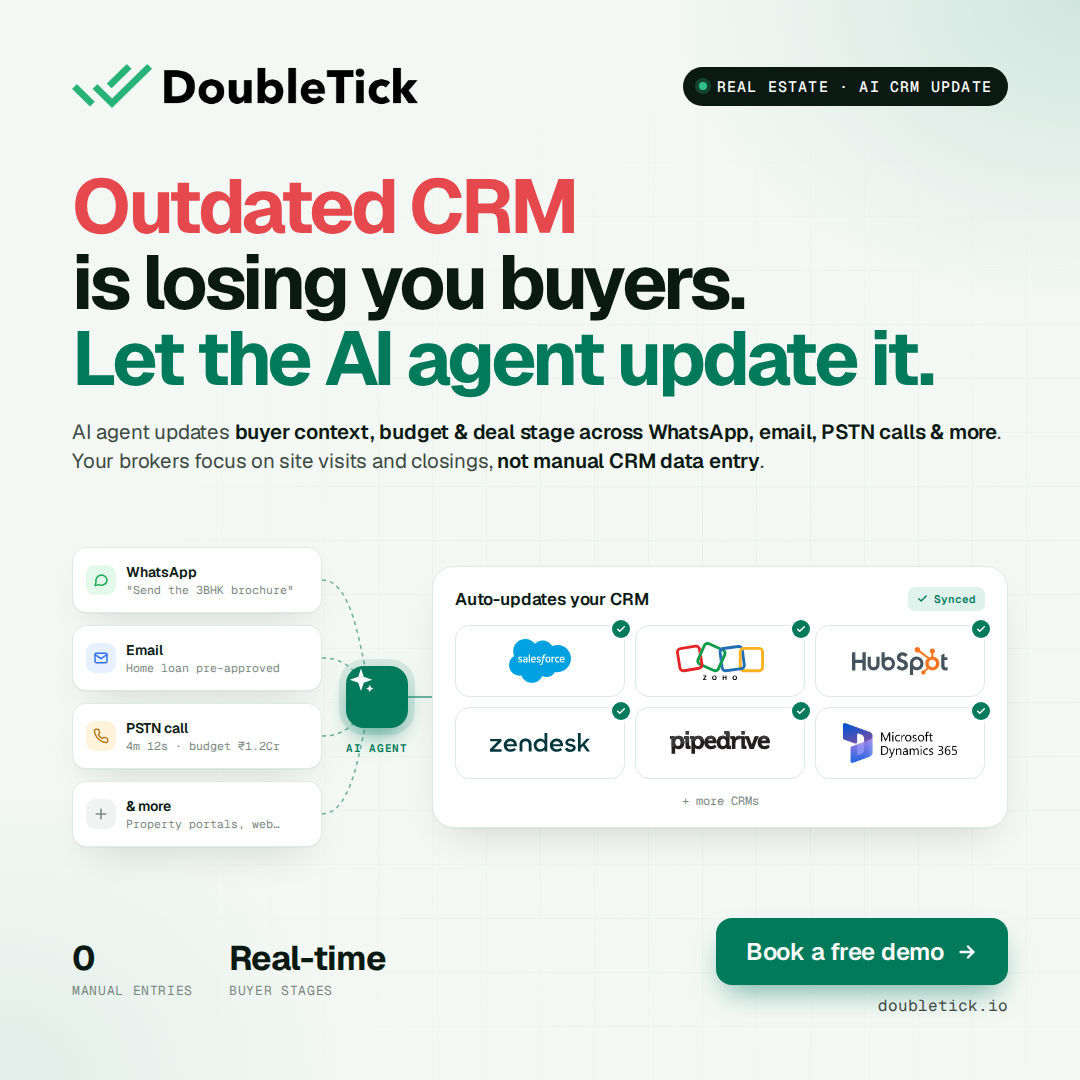
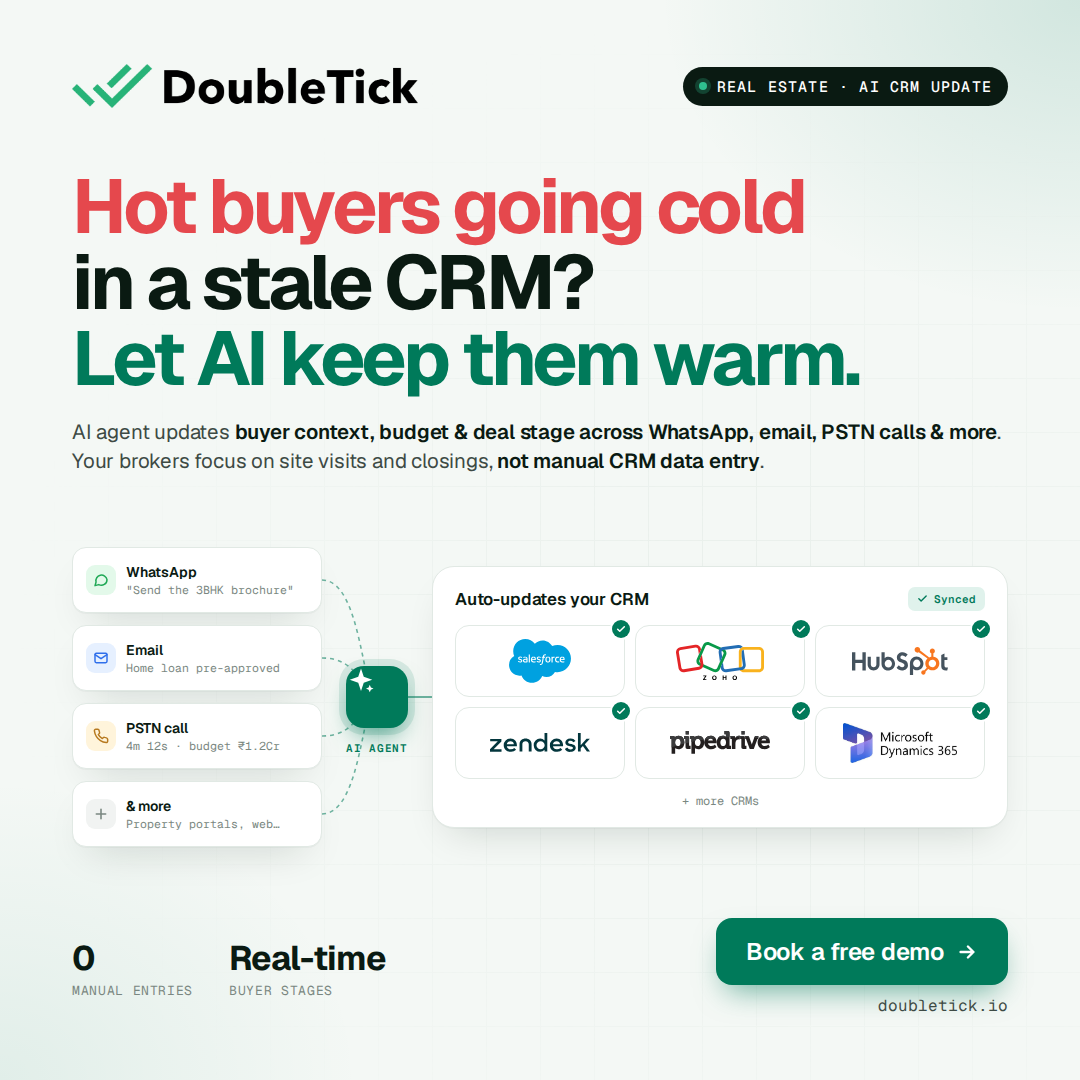
feat: sharpen hook on real estate CRM ad
Claude-Session: https://claude.ai/code/session_013Hi5o4KgvuLbKTeGkStAKX

Changed region(s): [[0.0611, 0.1528, 0.8861, 0.3667]]

diff --git a/ads/doubletick-ai-crm-update-real-estate/index.html b/ads/doubletick-ai-crm-update-real-estate/index.html
@@ -114,7 +114,7 @@
     <div class="pill mono"><i></i>Real Estate · AI CRM Update</div>
   </div>
 
-  <h1><span class="bad">Outdated CRM</span><br/>is losing you buyers.<br/><em>Let the AI agent update it.</em></h1>
+  <h1><span class="bad">Hot buyers going cold</span><br/>in a stale CRM?<br/><em>Let AI keep them warm.</em></h1>
   <p class="sub">AI agent updates <b>buyer context, budget &amp; deal stage across WhatsApp, email, PSTN calls &amp; more</b>.<br/>Your brokers focus on site visits and closings, <b>not manual CRM data entry</b>.</p>
 
   <div class="vis">
